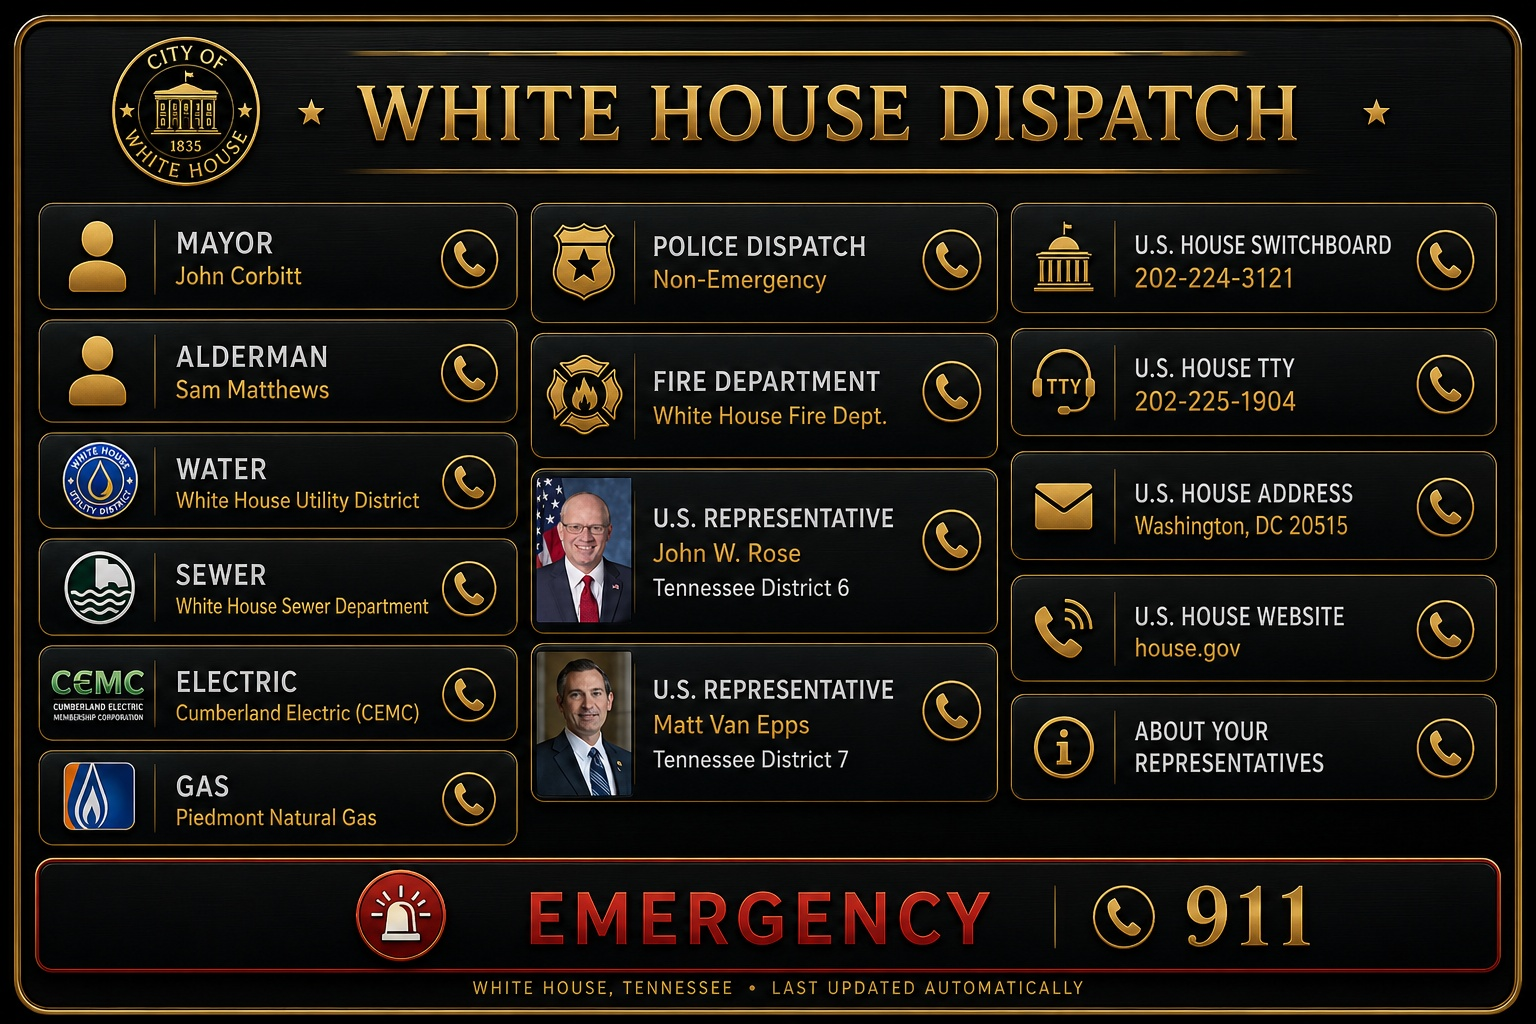
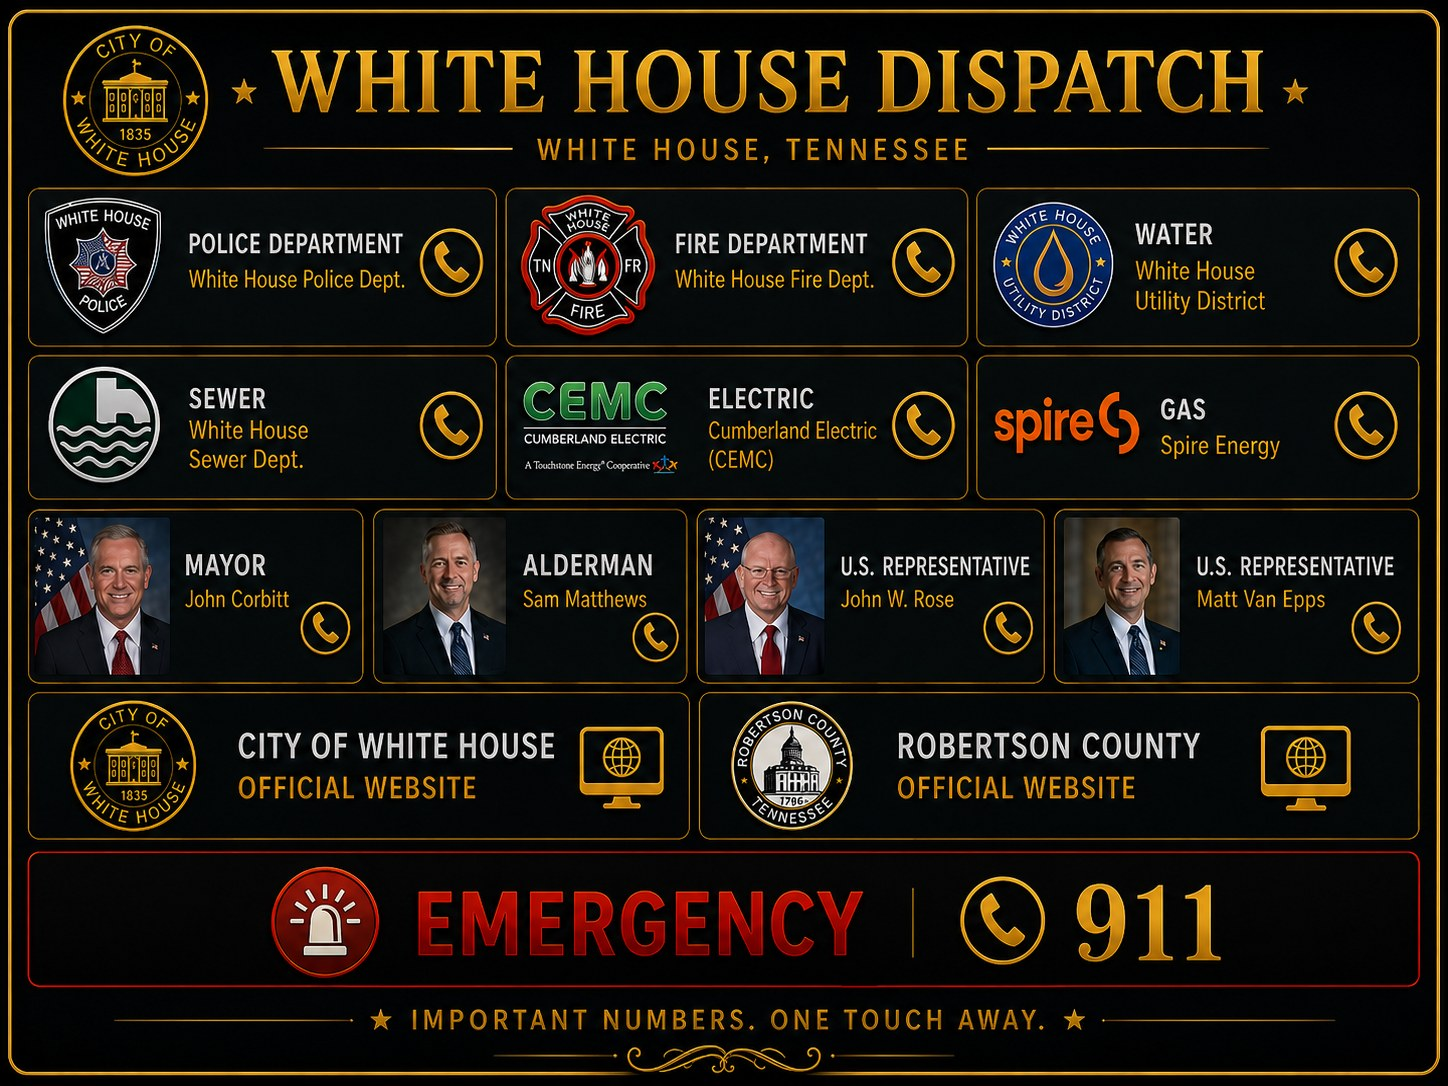
Dispatch card: swap to Spire-layout image + recalibrate all 13 tap hotspots
Jeff sent an updated White House Dispatch image (Spire replaces Piedmont for gas,
adds Robertson County website + the two U.S. Reps with photos, drops the US House
column). Swapped images/white-house-dispatch.jpg and rebuilt the hotspot grid to the
new layout, wiring the numbers from Jeff's provided directory: police 615-384-4911,
fire 615-672-5338, water 615-672-4110, sewer 615-672-3654, electric (CEMC)
800-987-2362, gas (Spire) 800-752-7504, mayor 615-766-7099, alderman 615-581-1104,
Rep John Rose + Rep Matt Van Epps (DC offices), city + Robertson County websites.
Emergency bar still triggers hccPanic (Jeff calls 911 himself), per standing rule.
Hotspot positions calibrated against the image and verified by overlay + in-browser
render; zero JS errors.

Claude-Session: https://claude.ai/code/session_01WuKnDJrDp2n6fHjhtahmLe

diff --git a/index.html b/index.html
@@ -593,17 +593,20 @@ html,body{
 .dispatch-card img{width:100%;display:block}
 .dispatch-card .hotspot{position:absolute;z-index:5;display:block;border-radius:9px;-webkit-tap-highlight-color:transparent}
 .dispatch-card .hotspot:active,.dispatch-card .hotspot:focus{background:rgba(255,206,120,.30);outline:none}
-.dispatch-card .mayor    {left:2.6%;top:19.4%;width:31.5%;height:9.6%}
-.dispatch-card .alderman {left:2.6%;top:30.7%;width:31.5%;height:9.6%}
-.dispatch-card .water    {left:2.6%;top:42.6%;width:31.5%;height:9.6%}
-.dispatch-card .sewer    {left:2.6%;top:53.9%;width:31.5%;height:9.6%}
-.dispatch-card .electric {left:2.6%;top:65.2%;width:31.5%;height:9.6%}
-.dispatch-card .gas      {left:2.6%;top:76.5%;width:31.5%;height:8.7%}
-.dispatch-card .police {left:34.8%;top:19.4%;width:30.4%;height:9.6%}
-.dispatch-card .fire   {left:34.8%;top:30.7%;width:30.4%;height:9.6%}
-.dispatch-card .house-main{left:65.9%;top:19.4%;width:31.5%;height:9.6%}
-.dispatch-card .house-tty {left:65.9%;top:30.7%;width:31.5%;height:9.6%}
-.dispatch-card .emergency{left:2.6%;top:85.6%;width:94.8%;height:9%}
+/* Positions calibrated to the Spire-layout dispatch image (1448×1086), verified by overlay. */
+.dispatch-card .police  {left:2.4%;top:17.5%;width:31.5%;height:13.5%}
+.dispatch-card .fire    {left:34.5%;top:17.5%;width:31.5%;height:13.5%}
+.dispatch-card .water   {left:67.2%;top:17.5%;width:30.5%;height:13.5%}
+.dispatch-card .sewer   {left:2.4%;top:33.5%;width:31.5%;height:13.5%}
+.dispatch-card .electric{left:34.5%;top:33.5%;width:31.5%;height:13.5%}
+.dispatch-card .gas     {left:67.2%;top:33.5%;width:30.5%;height:13.5%}
+.dispatch-card .mayor      {left:2.4%;top:48.5%;width:22.5%;height:14.5%}
+.dispatch-card .alderman   {left:25.5%;top:48.5%;width:22.5%;height:14.5%}
+.dispatch-card .johnRose   {left:48.7%;top:48.5%;width:23.5%;height:14.5%}
+.dispatch-card .mattVanEpps{left:72.7%;top:48.5%;width:24.5%;height:14.5%}
+.dispatch-card .cityWeb   {left:2.4%;top:64.5%;width:46%;height:11.5%}
+.dispatch-card .robertson {left:50.5%;top:64.5%;width:47%;height:11.5%}
+.dispatch-card .emergency{left:2.4%;top:77.5%;width:95.2%;height:10.5%}
 
 /* ── PANIC BUTTON ───────────────────────────────────────────────────────── */
 .hcc-panic-btn{
@@ -990,16 +993,18 @@ html,body{
     <!-- ── WHITE HOUSE DISPATCH — tap any row to call ── -->
     <section class="dispatch-card" aria-label="White House Dispatch — emergency and utility contacts">
       <img src="./images/white-house-dispatch.jpg" alt="White House Dispatch contact directory">
-      <a class="hotspot mayor" href="tel:6156724350" aria-label="Call Mayor John Corbitt"></a>
-      <a class="hotspot alderman" href="tel:6156724350" aria-label="Call Alderman Sam Matthews"></a>
+      <a class="hotspot police" href="tel:6153844911" aria-label="Call White House Police (non-emergency)"></a>
+      <a class="hotspot fire" href="tel:6156725338" aria-label="Call White House Fire Department"></a>
       <a class="hotspot water" href="tel:6156724110" aria-label="Call White House Utility District"></a>
       <a class="hotspot sewer" href="tel:6156723654" aria-label="Call White House Sewer Department"></a>
       <a class="hotspot electric" href="tel:8009872362" aria-label="Call Cumberland Electric CEMC"></a>
-      <a class="hotspot gas" href="tel:8007527504" aria-label="Call Piedmont Natural Gas"></a>
-      <a class="hotspot police" href="tel:6153844911" aria-label="Call Police Dispatch non-emergency"></a>
-      <a class="hotspot fire" href="tel:6156725338" aria-label="Call White House Fire Department"></a>
-      <a class="hotspot house-main" href="tel:2022243121" aria-label="Call U.S. House Switchboard"></a>
-      <a class="hotspot house-tty" href="tel:2022251904" aria-label="Call U.S. House TTY"></a>
+      <a class="hotspot gas" href="tel:8007527504" aria-label="Call Spire Energy"></a>
+      <a class="hotspot mayor" href="tel:6157667099" aria-label="Call Mayor John Corbitt"></a>
+      <a class="hotspot alderman" href="tel:6155811104" aria-label="Call Alderman Sam Matthews"></a>
+      <a class="hotspot johnRose" href="tel:2022254231" aria-label="Call U.S. Representative John W. Rose"></a>
+      <a class="hotspot mattVanEpps" href="tel:2022252811" aria-label="Call U.S. Representative Matt Van Epps"></a>
+      <a class="hotspot cityWeb" href="https://www.whitehousetn.gov/" target="_blank" rel="noopener" aria-label="City of White House official website"></a>
+      <a class="hotspot robertson" href="https://www.robertsoncountytn.gov/" target="_blank" rel="noopener" aria-label="Robertson County official website"></a>
       <a class="hotspot emergency" role="button" tabindex="0" onclick="hccPanic();return false;" aria-label="Emergency panic — asks you to confirm first"></a>
     </section>
 
